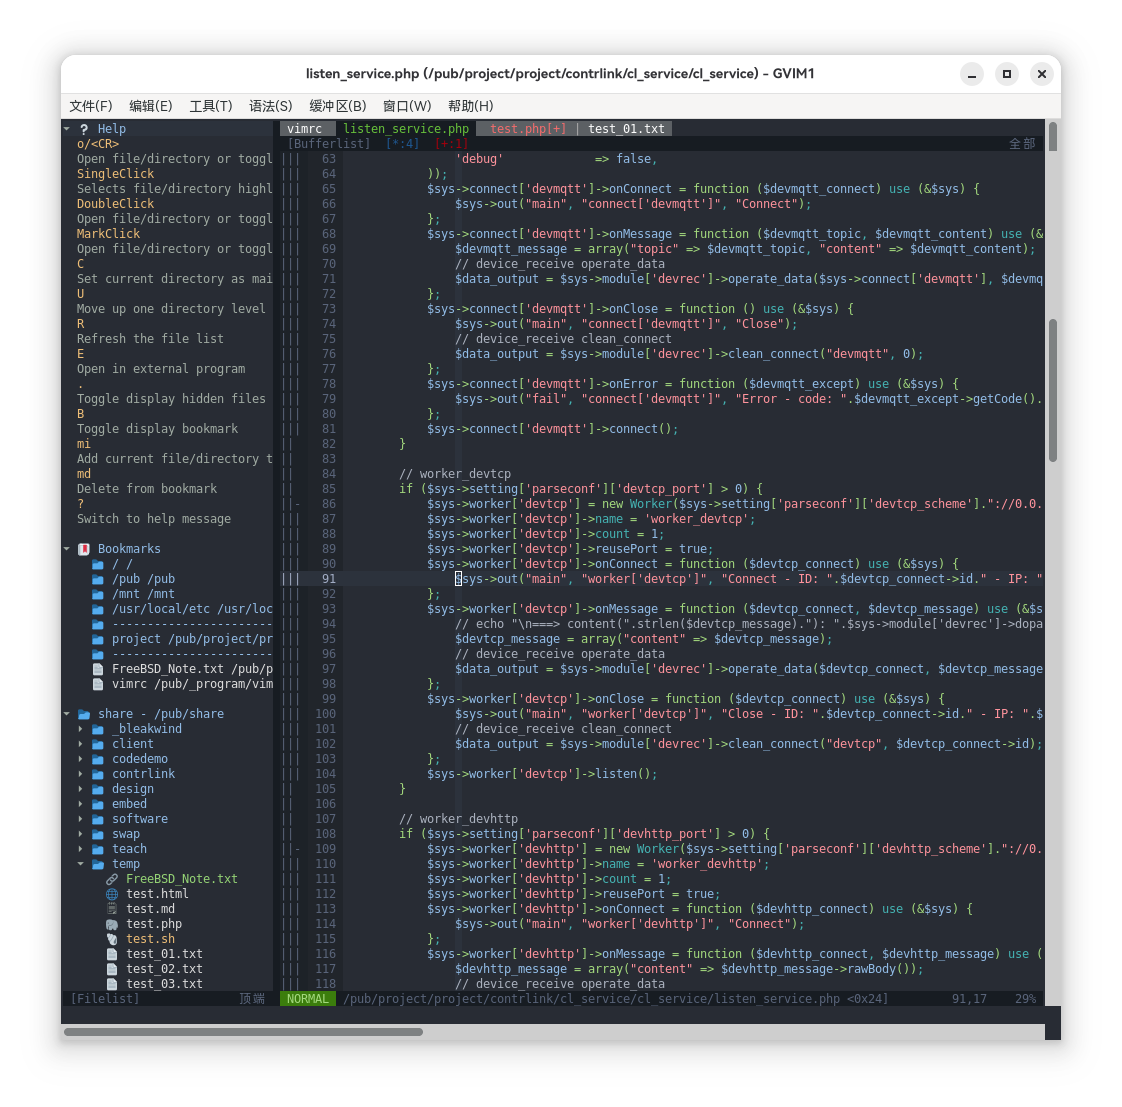
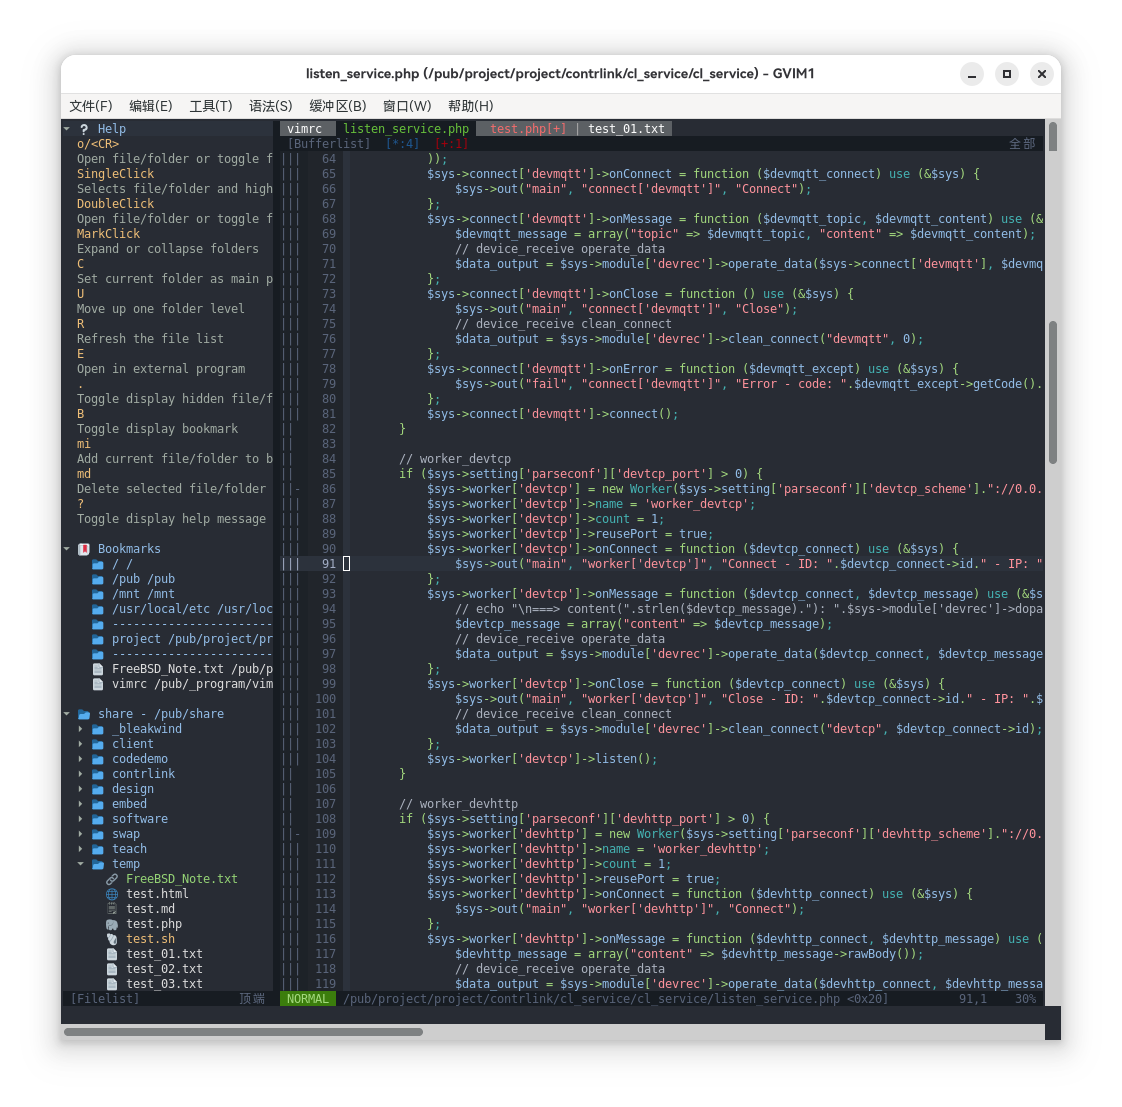
perf: fix something

diff --git a/README.md b/README.md
@@ -87,21 +87,21 @@ let g:filelist_hlhelplistdes = '#A1ACA3'
 ## Key Mappings
 
 ### When the filelist is focused:
-| Key           | Action                                   |
-| ------------- | ---------------------------------------- |
-| `o/<CR>`      | Open file/directory or toggle expansion  |
-| `SingleClick` | Selects file/directory highlights it     |
-| `DoubleClick` | Open file/directory or toggle expansion  |
-| `MarkClick`   | Open file/directory or toggle expansion  |
-| `C`           | Set current directory as main path       |
-| `U`           | Move up one directory level              |
-| `R`           | Refresh the file list                    |
-| `E`           | Open in external program                 |
-| `.`           | Toggle display hidden files              |
-| `B`           | Toggle display bookmark                  |
-| `mi`          | Add current file/directory to bookmarks  |
-| `md`          | Delete from bookmark                     |
-| `?`           | Switch to help message                   |
+| Key           | Action                                      |
+| ------------- | ------------------------------------------- |
+| `o/<CR>`      | Open file/folder or toggle folder expansion |
+| `SingleClick` | Selects file/folder and highlights it       |
+| `DoubleClick` | Open file/folder or toggle folder expansion |
+| `MarkClick`   | Expand or collapse folders                  |
+| `C`           | Set current folder as main path             |
+| `U`           | Move up one folder level                    |
+| `R`           | Refresh the file list                       |
+| `E`           | Open in external program                    |
+| `.`           | Toggle display hidden file/folder           |
+| `B`           | Toggle display bookmark                     |
+| `mi`          | Add current file/folder to bookmarks        |
+| `md`          | Delete selected file/folder from bookmark   |
+| `?`           | Toggle display help message                 |
 
 ## License
 BSD 2-Clause - See LICENSE file
